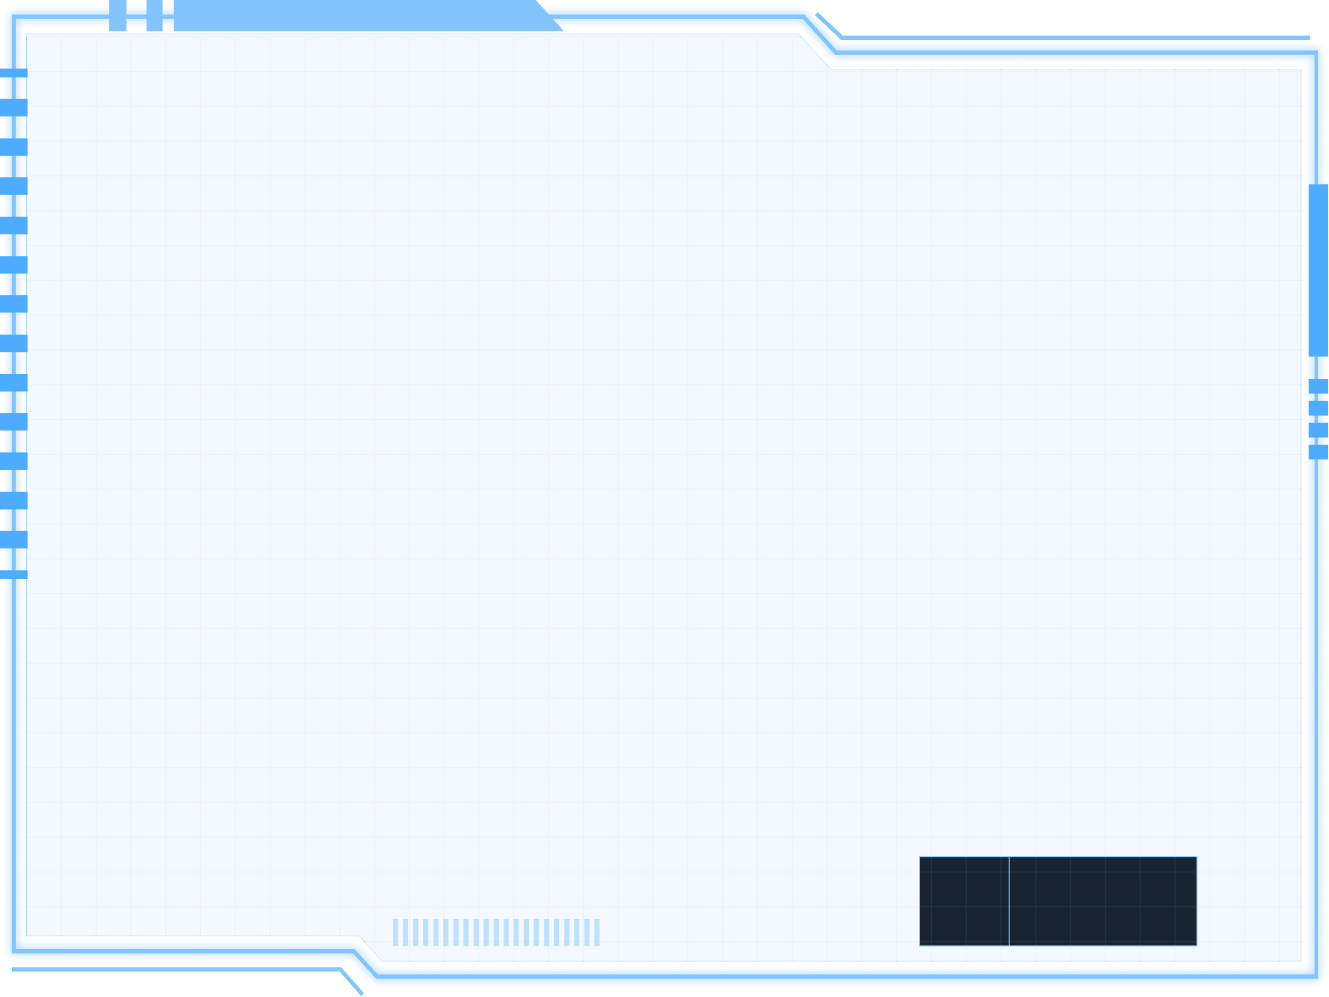
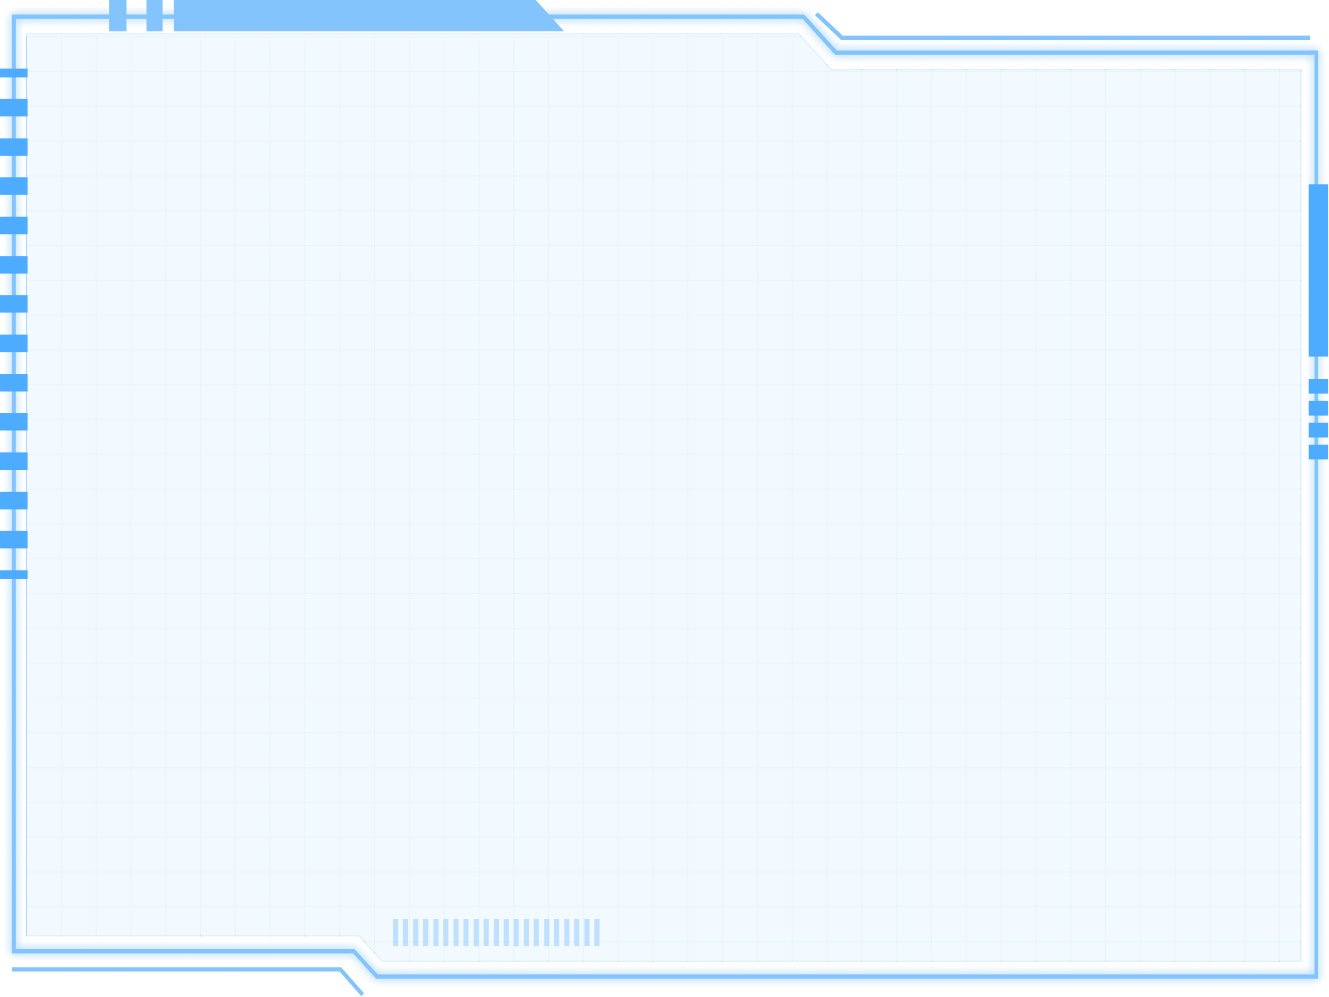
feat: add events animation

Changed region(s): [[0.6787, 0.8395, 0.9255, 0.9639]]

diff --git a/Home/src/components/JSX/EventsBox.jsx b/Home/src/components/JSX/EventsBox.jsx
@@ -1,0 +1,24 @@
+import React from "react";
+import styles from "../CSS/EventsBox.module.css";
+import boxL from '../../assets/events/eventsboxL.svg';
+import boxR from '../../assets/events/eventsboxR.svg';
+
+export default function EventsBox() {
+  return (
+    <div className={styles.box}>
+      <div className={styles.boxLeft}>
+        {/* <img className={styles.boxLImg} src={boxL} alt="" /> */}
+      </div>
+      <div className={styles.boxRight}>
+        {/* <img className={styles.boxRImg} src={boxR} alt="" /> */}
+        <div className={styles.bars}>
+            <div className={styles.bar} style={{"--delay": `${Math.random()}s`, "--duration": `${Math.random()*2 + 5}s`}}></div>
+            <div className={styles.bar} style={{"--delay": `${Math.random()}s`, "--duration": `${Math.random()*2 + 5}s`}}></div>
+            <div className={styles.bar} style={{"--delay": `${Math.random()}s`, "--duration": `${Math.random()*2 + 5}s`}}></div>
+            <div className={styles.bar} style={{"--delay": `${Math.random()}s`, "--duration": `${Math.random()*2 + 5}s`}}></div>
+            <div className={styles.bar} style={{"--delay": `${Math.random()}s`, "--duration": `${Math.random()*2 + 5}s`}}></div>
+        </div>
+      </div>
+    </div>
+  );
+}

diff --git a/Home/src/components/CSS/EventsBox.module.css b/Home/src/components/CSS/EventsBox.module.css
@@ -1,0 +1,74 @@
+
+.box {
+    position: absolute;
+    bottom: 6%;
+    right: 10%;
+    width: 190px;
+    height: 60px;
+    border: 1px solid #83C4FD;
+    display: flex;
+}
+
+.box > * {
+    height: 100%;
+    display: flex;
+    justify-content: center;
+    align-items: center;
+}
+
+.boxLeft {
+    width: 60px;
+    border-right: 1px solid #83C4FD;
+    background: url('../../assets/events/eventsboxL.svg') center no-repeat;
+    background-size: 90%;
+}
+
+.boxLImg {
+    width: 90%;
+}
+
+.boxRight {
+    width: 129px;
+    height: 100%;background: url('../../assets/events/eventsboxR.svg') center no-repeat;
+    background-size: 90%;
+}
+
+.boxRImg {
+    width: 90%;
+}
+
+.bars {
+    display: flex;
+    flex-direction: column;
+    justify-content: center;
+    align-items: flex-start;
+    width: 78%;
+    gap: 3px;
+}
+
+.bar {
+    width: 100%;
+    height: 4px;
+    background-color: #6CA2CF;
+    animation: progress var(--duration) ease var(--delay) infinite;
+}
+
+@keyframes progress {
+    0% {
+        width: 0;
+    }
+    50% {
+        width: 100%;
+    }
+    100% {
+        width: 0;
+    }
+}
+
+@media (max-width: 800px) {
+    .box {
+        bottom: 5%;
+        right: 6%;
+        scale: .8;
+    }
+}

diff --git a/Home/src/components/JSX/Events.jsx b/Home/src/components/JSX/Events.jsx
@@ -5,6 +5,7 @@ import useWindowDimensions from "../../hooks/useWindowDimensions";
 import styles from "../CSS/Events.module.css";
 import stylesH from "../CSS/About.module.css";
 import EventCard from "./EventCard";
+import EventsBox from "./EventsBox";
 
 function Events(props) {
   const { height, width } = useWindowDimensions();
@@ -156,6 +157,7 @@ function Events(props) {
                 {"Mayan Agrawal - +91 9423527868"}
               </div>
             </div>
+            <EventsBox />
           </div>
         </div>
 

diff --git a/Home/src/components/CSS/Events.module.css b/Home/src/components/CSS/Events.module.css
@@ -48,6 +48,7 @@
 }
 
 .info {
+  position: relative;
   width: 70%;
   background: url(/backgrounds/events.png) center no-repeat;
   background-size: 100% 100%;
